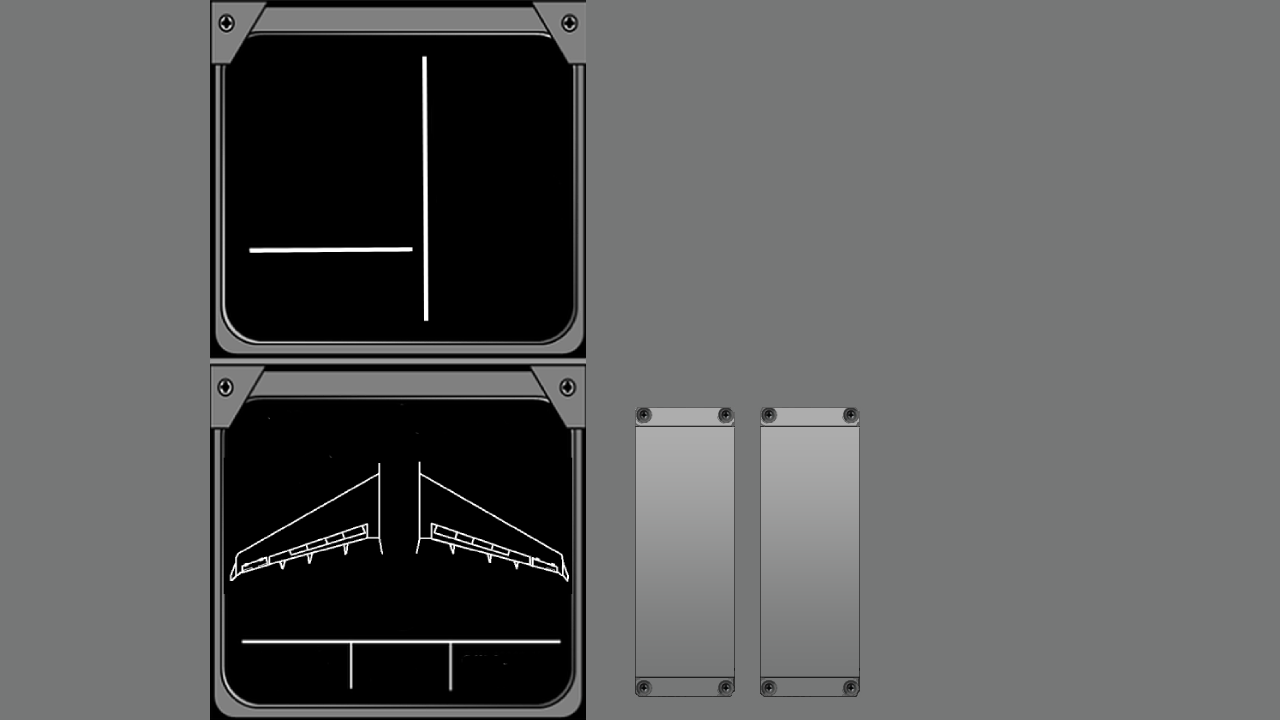
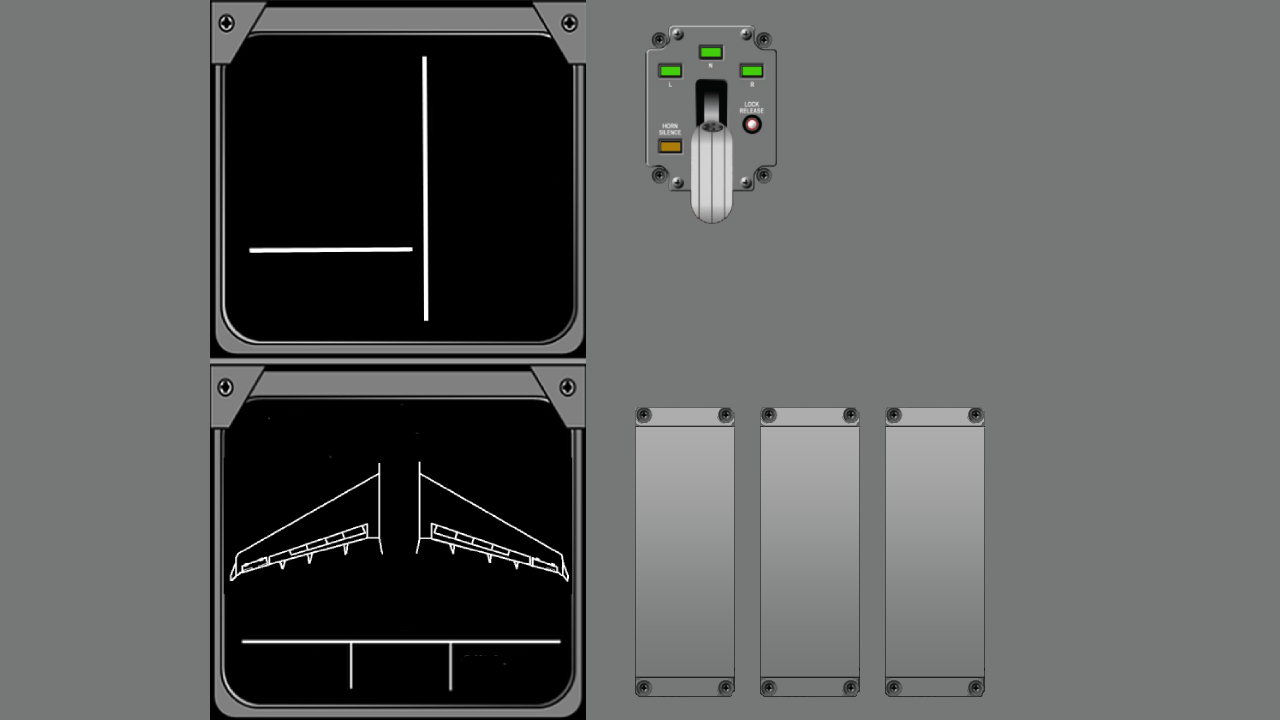
Adding Engine Throttles

diff --git a/Aero390Spoilers/Aero390Spoilers/AircraftGUI.Designer.cs b/Aero390Spoilers/Aero390Spoilers/AircraftGUI.Designer.cs
@@ -91,6 +91,10 @@
             this.BaroTitleTB = new System.Windows.Forms.TextBox();
             this.AltTitleTB = new System.Windows.Forms.TextBox();
             this.IASTitleTB = new System.Windows.Forms.TextBox();
+            this.RENGThrottle = new System.Windows.Forms.TrackBar();
+            this.LENGThrottle = new System.Windows.Forms.TrackBar();
+            this.IdleTB = new System.Windows.Forms.TextBox();
+            this.MaxThrTB = new System.Windows.Forms.TextBox();
             ((System.ComponentModel.ISupportInitialize)(this.ControlWheelBar)).BeginInit();
             ((System.ComponentModel.ISupportInitialize)(this.SpoilerLever)).BeginInit();
             ((System.ComponentModel.ISupportInitialize)(this.FlapLever)).BeginInit();
@@ -98,6 +102,8 @@
             ((System.ComponentModel.ISupportInitialize)(this.WoWPBLight)).BeginInit();
             ((System.ComponentModel.ISupportInitialize)(this.ABSelectorPB)).BeginInit();
             ((System.ComponentModel.ISupportInitialize)(this.MWMCPB)).BeginInit();
+            ((System.ComponentModel.ISupportInitialize)(this.RENGThrottle)).BeginInit();
+            ((System.ComponentModel.ISupportInitialize)(this.LENGThrottle)).BeginInit();
             this.SuspendLayout();
             // 
             // WowButton
@@ -124,7 +130,7 @@
             this.IntegerInput.BackColor = System.Drawing.Color.Black;
             this.IntegerInput.Font = new System.Drawing.Font("B612", 9.749999F, System.Drawing.FontStyle.Regular, System.Drawing.GraphicsUnit.Point, ((byte)(0)));
             this.IntegerInput.ForeColor = System.Drawing.Color.White;
-            this.IntegerInput.Location = new System.Drawing.Point(966, 649);
+            this.IntegerInput.Location = new System.Drawing.Point(653, 704);
             this.IntegerInput.Name = "IntegerInput";
             this.IntegerInput.Size = new System.Drawing.Size(284, 25);
             this.IntegerInput.TabIndex = 17;
@@ -318,7 +324,7 @@
             this.FlapLever.BackColor = System.Drawing.Color.FromArgb(((int)(((byte)(119)))), ((int)(((byte)(119)))), ((int)(((byte)(119)))));
             this.FlapLever.Cursor = System.Windows.Forms.Cursors.Hand;
             this.FlapLever.LargeChange = 1;
-            this.FlapLever.Location = new System.Drawing.Point(787, 432);
+            this.FlapLever.Location = new System.Drawing.Point(915, 430);
             this.FlapLever.Maximum = 0;
             this.FlapLever.Minimum = -3;
             this.FlapLever.Name = "FlapLever";
@@ -333,7 +339,7 @@
             this.FlapsUPtext.Cursor = System.Windows.Forms.Cursors.Default;
             this.FlapsUPtext.Font = new System.Drawing.Font("B612", 9.749999F, System.Drawing.FontStyle.Regular, System.Drawing.GraphicsUnit.Point, ((byte)(0)));
             this.FlapsUPtext.ForeColor = System.Drawing.Color.White;
-            this.FlapsUPtext.Location = new System.Drawing.Point(816, 438);
+            this.FlapsUPtext.Location = new System.Drawing.Point(944, 436);
             this.FlapsUPtext.Name = "FlapsUPtext";
             this.FlapsUPtext.Size = new System.Drawing.Size(18, 18);
             this.FlapsUPtext.TabIndex = 36;
@@ -346,7 +352,7 @@
             this.Flaps10text.Cursor = System.Windows.Forms.Cursors.Default;
             this.Flaps10text.Font = new System.Drawing.Font("B612", 9.749999F, System.Drawing.FontStyle.Regular, System.Drawing.GraphicsUnit.Point, ((byte)(0)));
             this.Flaps10text.ForeColor = System.Drawing.Color.White;
-            this.Flaps10text.Location = new System.Drawing.Point(816, 507);
+            this.Flaps10text.Location = new System.Drawing.Point(944, 505);
             this.Flaps10text.Name = "Flaps10text";
             this.Flaps10text.Size = new System.Drawing.Size(18, 18);
             this.Flaps10text.TabIndex = 37;
@@ -359,7 +365,7 @@
             this.Flaps20text.Cursor = System.Windows.Forms.Cursors.Default;
             this.Flaps20text.Font = new System.Drawing.Font("B612", 9.749999F, System.Drawing.FontStyle.Regular, System.Drawing.GraphicsUnit.Point, ((byte)(0)));
             this.Flaps20text.ForeColor = System.Drawing.Color.White;
-            this.Flaps20text.Location = new System.Drawing.Point(816, 579);
+            this.Flaps20text.Location = new System.Drawing.Point(944, 577);
             this.Flaps20text.Name = "Flaps20text";
             this.Flaps20text.Size = new System.Drawing.Size(18, 18);
             this.Flaps20text.TabIndex = 38;
@@ -372,7 +378,7 @@
             this.Flaps30text.Cursor = System.Windows.Forms.Cursors.Default;
             this.Flaps30text.Font = new System.Drawing.Font("B612", 9.749999F, System.Drawing.FontStyle.Regular, System.Drawing.GraphicsUnit.Point, ((byte)(0)));
             this.Flaps30text.ForeColor = System.Drawing.Color.White;
-            this.Flaps30text.Location = new System.Drawing.Point(816, 649);
+            this.Flaps30text.Location = new System.Drawing.Point(944, 647);
             this.Flaps30text.Name = "Flaps30text";
             this.Flaps30text.Size = new System.Drawing.Size(18, 18);
             this.Flaps30text.TabIndex = 39;
@@ -877,6 +883,58 @@
             this.IASTitleTB.Text = "IAS:";
             this.IASTitleTB.TextAlign = System.Windows.Forms.HorizontalAlignment.Right;
             // 
+            // RENGThrottle
+            // 
+            this.RENGThrottle.BackColor = System.Drawing.Color.FromArgb(((int)(((byte)(119)))), ((int)(((byte)(119)))), ((int)(((byte)(119)))));
+            this.RENGThrottle.Cursor = System.Windows.Forms.Cursors.Hand;
+            this.RENGThrottle.LargeChange = 1;
+            this.RENGThrottle.Location = new System.Drawing.Point(804, 433);
+            this.RENGThrottle.Name = "RENGThrottle";
+            this.RENGThrottle.Orientation = System.Windows.Forms.Orientation.Vertical;
+            this.RENGThrottle.Size = new System.Drawing.Size(45, 240);
+            this.RENGThrottle.TabIndex = 73;
+            this.RENGThrottle.TickFrequency = 2;
+            // 
+            // LENGThrottle
+            // 
+            this.LENGThrottle.BackColor = System.Drawing.Color.FromArgb(((int)(((byte)(119)))), ((int)(((byte)(119)))), ((int)(((byte)(119)))));
+            this.LENGThrottle.Cursor = System.Windows.Forms.Cursors.Hand;
+            this.LENGThrottle.LargeChange = 1;
+            this.LENGThrottle.Location = new System.Drawing.Point(774, 433);
+            this.LENGThrottle.Name = "LENGThrottle";
+            this.LENGThrottle.Orientation = System.Windows.Forms.Orientation.Vertical;
+            this.LENGThrottle.RightToLeft = System.Windows.Forms.RightToLeft.No;
+            this.LENGThrottle.Size = new System.Drawing.Size(45, 240);
+            this.LENGThrottle.TabIndex = 74;
+            this.LENGThrottle.TickFrequency = 2;
+            this.LENGThrottle.TickStyle = System.Windows.Forms.TickStyle.TopLeft;
+            // 
+            // IdleTB
+            // 
+            this.IdleTB.BackColor = System.Drawing.Color.FromArgb(((int)(((byte)(119)))), ((int)(((byte)(119)))), ((int)(((byte)(119)))));
+            this.IdleTB.BorderStyle = System.Windows.Forms.BorderStyle.None;
+            this.IdleTB.Cursor = System.Windows.Forms.Cursors.Default;
+            this.IdleTB.Font = new System.Drawing.Font("B612", 9.749999F, System.Drawing.FontStyle.Regular, System.Drawing.GraphicsUnit.Point, ((byte)(0)));
+            this.IdleTB.ForeColor = System.Drawing.Color.White;
+            this.IdleTB.Location = new System.Drawing.Point(828, 652);
+            this.IdleTB.Name = "IdleTB";
+            this.IdleTB.Size = new System.Drawing.Size(30, 18);
+            this.IdleTB.TabIndex = 75;
+            this.IdleTB.Text = "IDLE";
+            // 
+            // MaxThrTB
+            // 
+            this.MaxThrTB.BackColor = System.Drawing.Color.FromArgb(((int)(((byte)(119)))), ((int)(((byte)(119)))), ((int)(((byte)(119)))));
+            this.MaxThrTB.BorderStyle = System.Windows.Forms.BorderStyle.None;
+            this.MaxThrTB.Cursor = System.Windows.Forms.Cursors.Default;
+            this.MaxThrTB.Font = new System.Drawing.Font("B612", 9.749999F, System.Drawing.FontStyle.Regular, System.Drawing.GraphicsUnit.Point, ((byte)(0)));
+            this.MaxThrTB.ForeColor = System.Drawing.Color.White;
+            this.MaxThrTB.Location = new System.Drawing.Point(828, 439);
+            this.MaxThrTB.Name = "MaxThrTB";
+            this.MaxThrTB.Size = new System.Drawing.Size(30, 18);
+            this.MaxThrTB.TabIndex = 76;
+            this.MaxThrTB.Text = "MAX";
+            // 
             // AircraftGUI
             // 
             this.AutoScaleDimensions = new System.Drawing.SizeF(6F, 13F);
@@ -886,6 +944,10 @@
             this.BackgroundImageLayout = System.Windows.Forms.ImageLayout.None;
             this.CausesValidation = false;
             this.ClientSize = new System.Drawing.Size(1264, 741);
+            this.Controls.Add(this.MaxThrTB);
+            this.Controls.Add(this.IdleTB);
+            this.Controls.Add(this.RENGThrottle);
+            this.Controls.Add(this.LENGThrottle);
             this.Controls.Add(this.IASTitleTB);
             this.Controls.Add(this.AltTitleTB);
             this.Controls.Add(this.GwPrintOut);
@@ -960,6 +1022,8 @@
             ((System.ComponentModel.ISupportInitialize)(this.WoWPBLight)).EndInit();
             ((System.ComponentModel.ISupportInitialize)(this.ABSelectorPB)).EndInit();
             ((System.ComponentModel.ISupportInitialize)(this.MWMCPB)).EndInit();
+            ((System.ComponentModel.ISupportInitialize)(this.RENGThrottle)).EndInit();
+            ((System.ComponentModel.ISupportInitialize)(this.LENGThrottle)).EndInit();
             this.ResumeLayout(false);
             this.PerformLayout();
 
@@ -1028,6 +1092,10 @@
         private System.Windows.Forms.TextBox BaroTitleTB;
         private System.Windows.Forms.TextBox AltTitleTB;
         private System.Windows.Forms.TextBox IASTitleTB;
+        private System.Windows.Forms.TrackBar RENGThrottle;
+        private System.Windows.Forms.TrackBar LENGThrottle;
+        private System.Windows.Forms.TextBox IdleTB;
+        private System.Windows.Forms.TextBox MaxThrTB;
     }
 }
 

diff --git a/Aero390Spoilers/Ownship/Ownship.cs b/Aero390Spoilers/Ownship/Ownship.cs
@@ -45,6 +45,8 @@ namespace Ownship
             SpoilerLeverPosition = 0;
             FlapLeverPosition = 0;
             AutoBrakeSelectorPosition = 0;
+            LThrottlePosition = 0;
+            RThrottlePosition = 0;
 
             for (int i = 0; i < wArincMessages.Length; i++)
             {
@@ -193,6 +195,8 @@ namespace Ownship
         public int FlapLeverPosition { get; set; }
         public int SWControlWheelPosition { get; set; }
         public int AutoBrakeSelectorPosition { get; set; }
+        public int LThrottlePosition { get; set; }
+        public int RThrottlePosition { get; set; }
 
         //DISPLAYS
         public int[] SpoilerDeflectionPercentage = new int[8];

diff --git a/Aero390Spoilers/Aero390Spoilers/AircraftGUI.cs b/Aero390Spoilers/Aero390Spoilers/AircraftGUI.cs
@@ -74,6 +74,10 @@ namespace Aero390Spoilers
             //CONTROL WHEEL REFRESH
             GUIOwnship.SWControlWheelPosition = ControlWheelBar.Value;
             GUIOwnship.BankAngle = GUIOwnship.SWControlWheelPosition * 3;
+
+            //THROTTLES
+            GUIOwnship.LThrottlePosition = LENGThrottle.Value;
+            GUIOwnship.RThrottlePosition = RENGThrottle.Value;
         }
         private void ReadDataPipe(string PipeName)
         {
